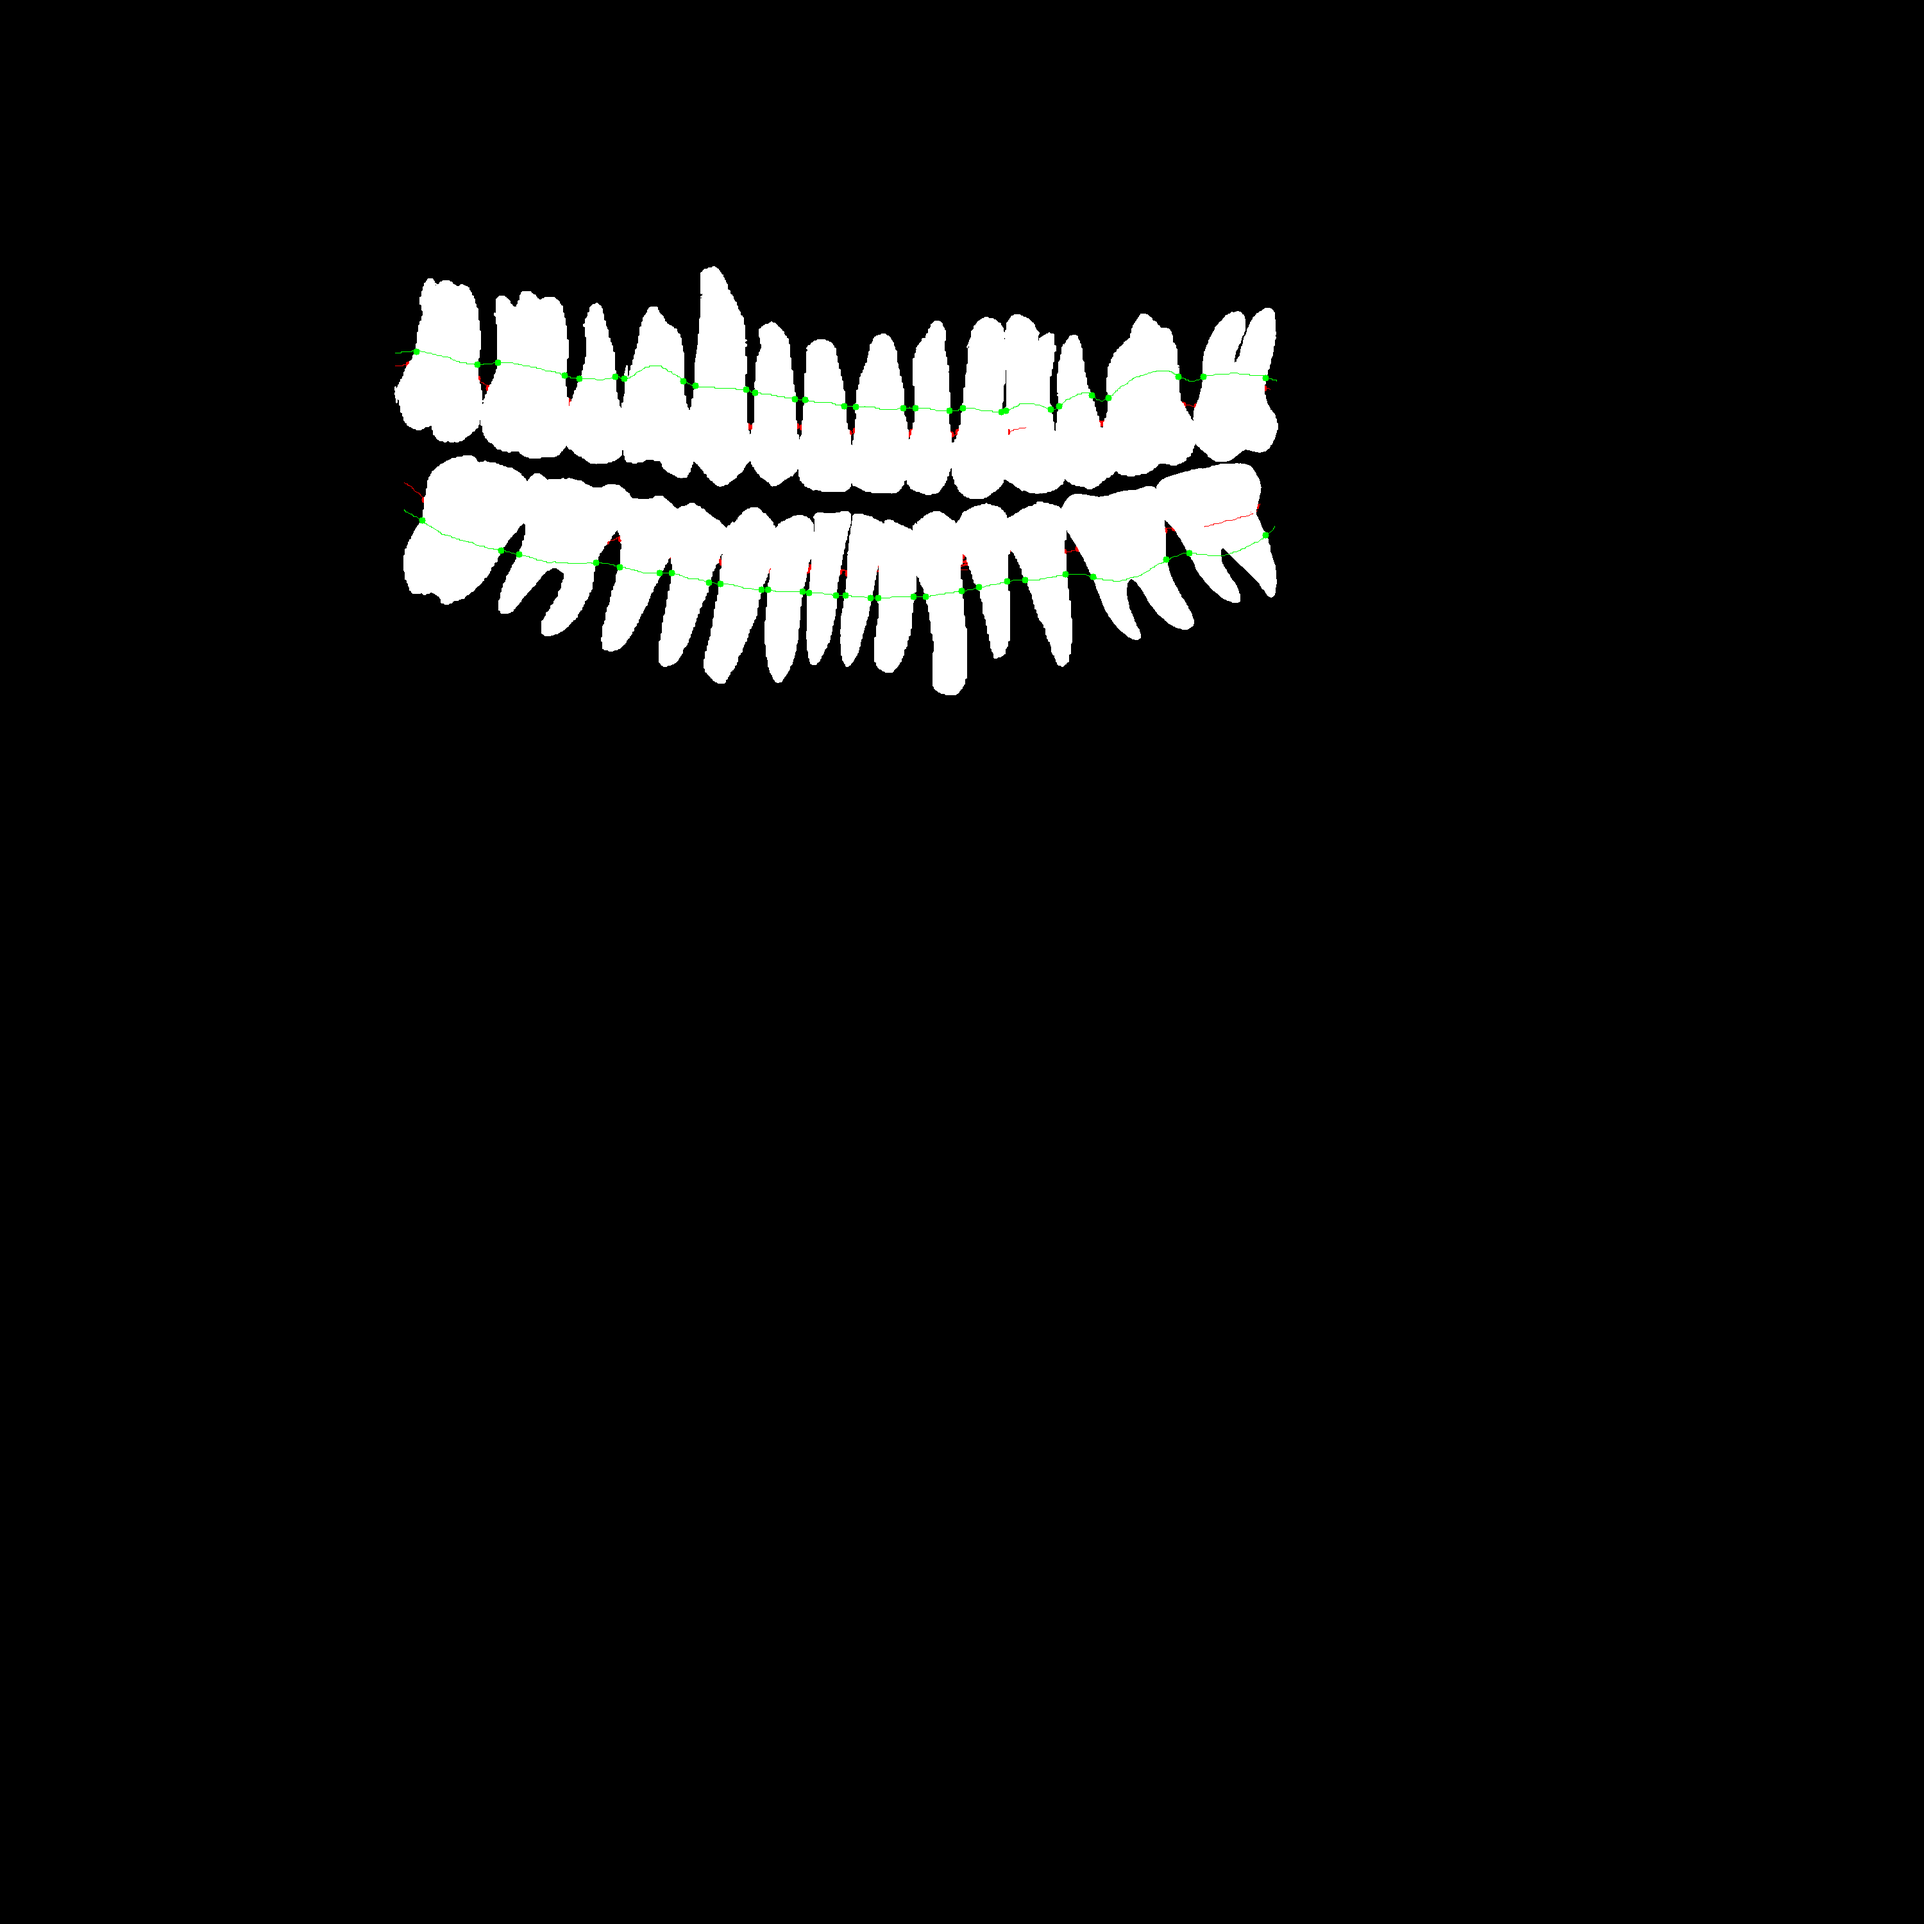
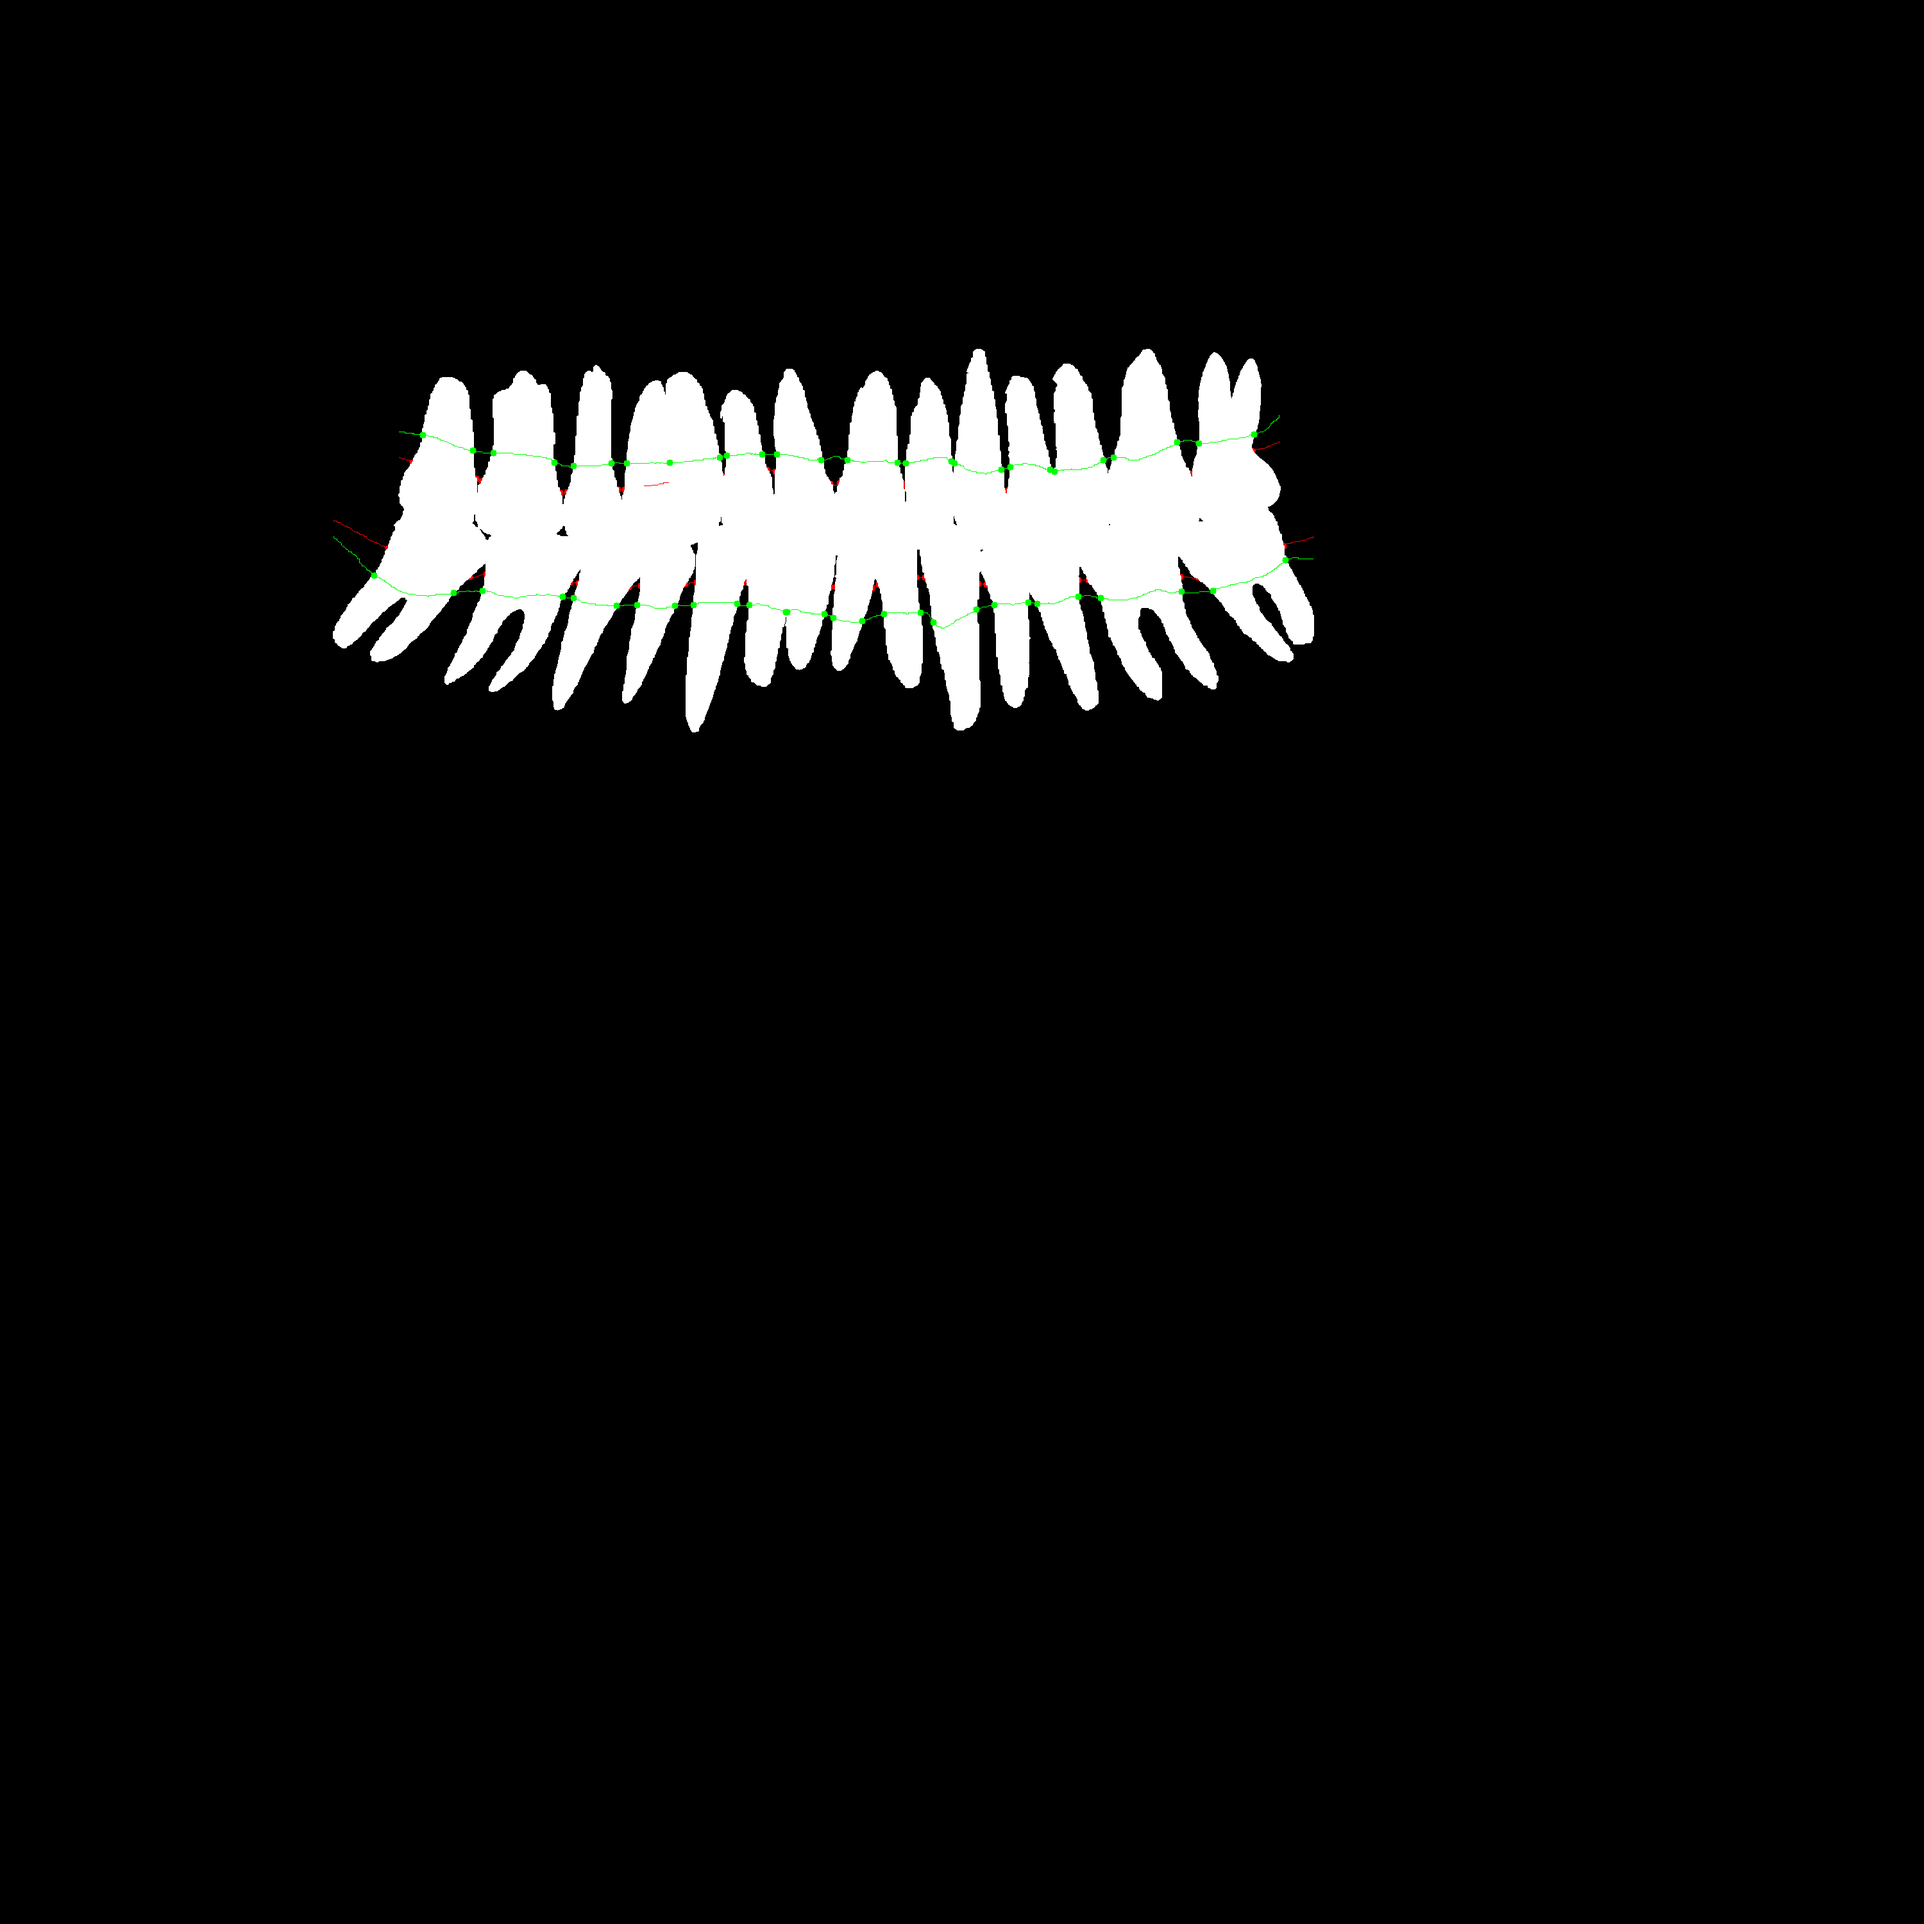
[BE-22]: tla 좌표 조정

Changed region(s): [[0.155, 0.124, 0.682, 0.372]]

diff --git a/src/main/java/com/fas/PrtioAI_Insights/service/CejBoneDistancesService.java b/src/main/java/com/fas/PrtioAI_Insights/service/CejBoneDistancesService.java
@@ -42,7 +42,7 @@ public class CejBoneDistancesService {
 
     private Map<Integer, List<Point>> cejIntersectionsByTooth;
     private Map<Integer, List<Point>> boneIntersectionsByTooth;
-    private  Map<Integer, Double> tlaAngleByTooth;
+    private Map<Integer, Double> tlaAngleByTooth;
 
 
     private Mat combinedMask, cejMask, mappedCejMask, tlaMask, boneMask, cejMappedOnlyMask, boneMappedOnlyMask;
@@ -171,7 +171,7 @@ public class CejBoneDistancesService {
                 type_ = "A";
             } else if (work.equals("S") && line.startsWith("DD")) {
                 type_ = "D";
-            } else if (work.equals("S") && line.startsWith("RBLD")){
+            } else if (work.equals("S") && line.startsWith("RBLD")) {
                 type_ = "RBL";
             } else if (work.equals("S") && line.startsWith("TRLD")) {
                 type_ = "TRL";
@@ -319,7 +319,7 @@ public class CejBoneDistancesService {
     private Map<Integer, Map<String, Point>> findAndMarkLastIntersections() {
         Map<Integer, Map<String, Point>> intersectionsByTooth = new HashMap<>();
 
-        for (Map.Entry<Integer, List<List<Point>>> entry : filteredTlaPointsByTooth.entrySet()) {
+        for (Map.Entry<Integer, List<List<Point>>> entry : tlaPointsByNum.entrySet()) {
             int toothNum = entry.getKey();
             List<List<Point>> tlaSegments = entry.getValue();
 
@@ -328,22 +328,16 @@ public class CejBoneDistancesService {
 
             if (cejIntersections == null || boneIntersections == null) continue;
 
-            double minCejX = cejIntersections.stream().mapToDouble(p -> p.x).min().orElse(Double.MIN_VALUE);
-            double maxCejX = cejIntersections.stream().mapToDouble(p -> p.x).max().orElse(Double.MAX_VALUE);
-            double minBoneX = boneIntersections.stream().mapToDouble(p -> p.x).min().orElse(Double.MIN_VALUE);
-            double maxBoneX = boneIntersections.stream().mapToDouble(p -> p.x).max().orElse(Double.MAX_VALUE);
-
-            double minAllowedX = Math.min(minCejX, minBoneX);
-            double maxAllowedX = Math.max(maxCejX, maxBoneX);
-
             for (List<Point> tlaSegment : tlaSegments) {
                 if (tlaSegment.size() >= 2) {
-                    double totalDx = tlaSegment.get(1).x - tlaSegment.get(0).x;
-                    double totalDy = tlaSegment.get(1).y - tlaSegment.get(0).y;
-                    double length = Math.sqrt(totalDx * totalDx + totalDy * totalDy);
-                    double shiftX = (totalDy / length);
-                    double shiftY = -(totalDx / length);
+                    // 방향 설정 (단위 벡터)
+                    double dx = tlaSegment.get(1).x - tlaSegment.get(0).x;
+                    double dy = tlaSegment.get(1).y - tlaSegment.get(0).y;
+                    double length = Math.sqrt(dx * dx + dy * dy);
+                    double shiftX = -dy / length;  // 가로 이동이므로 y의 역방향
+                    double shiftY = dx / length;   // 가로 이동이므로 x 방향
 
+                    // 결과 저장용
                     List<Point> finalShiftedTlaLeft = new ArrayList<>();
                     List<Point> finalShiftedTlaRight = new ArrayList<>();
                     Point lastCejIntersectionLeft = null;
@@ -353,22 +347,23 @@ public class CejBoneDistancesService {
                     boolean foundLeft = false;
                     boolean foundRight = false;
 
+                    // TLA 선을 좌우 방향으로 평행 이동
                     for (double offset = -50; offset <= 50; offset += 1) {
+                        // 왼쪽으로 이동한 TLA 선
                         List<Point> shiftedTlaLeft = new ArrayList<>();
-                        List<Point> shiftedTlaRight = new ArrayList<>();
-
                         for (Point p : tlaSegment) {
                             Point leftShifted = new Point(p.x + offset * shiftX, p.y + offset * shiftY);
-                            Point rightShifted = new Point(p.x - offset * shiftX, p.y - offset * shiftY);
-
-                            if (leftShifted.x >= minAllowedX && leftShifted.x <= maxAllowedX) {
-                                shiftedTlaLeft.add(leftShifted);
-                            }
-                            if (rightShifted.x >= minAllowedX && rightShifted.x <= maxAllowedX) {
-                                shiftedTlaRight.add(rightShifted);
-                            }
+                            shiftedTlaLeft.add(leftShifted);
                         }
 
+                        // 오른쪽으로 이동한 TLA 선
+                        List<Point> shiftedTlaRight = new ArrayList<>();
+                        for (Point p : tlaSegment) {
+                            Point rightShifted = new Point(p.x - offset * shiftX, p.y - offset * shiftY);
+                            shiftedTlaRight.add(rightShifted);
+                        }
+
+                        // 왼쪽 이동 TLA 선의 CEJ와 Bone 교점 탐색
                         if (!shiftedTlaLeft.isEmpty()) {
                             Point currentCejIntersectionLeft = findClosestIntersection(shiftedTlaLeft, cejIntersections);
                             Point currentBoneIntersectionLeft = findClosestIntersection(shiftedTlaLeft, boneIntersections);
@@ -378,9 +373,14 @@ public class CejBoneDistancesService {
                                 lastBoneIntersectionLeft = currentBoneIntersectionLeft;
                                 finalShiftedTlaLeft = new ArrayList<>(shiftedTlaLeft);
                                 foundLeft = true;
+
+                                // 치아 번호별 교점이 끝나는지 확인하고 종료
+                                if (isEndOfIntersection(currentCejIntersectionLeft, cejIntersections)
+                                        || isEndOfIntersection(currentBoneIntersectionLeft, boneIntersections)) break;
                             } else if (foundLeft) break;
                         }
 
+                        // 오른쪽 이동 TLA 선의 CEJ와 Bone 교점 탐색
                         if (!shiftedTlaRight.isEmpty()) {
                             Point currentCejIntersectionRight = findClosestIntersection(shiftedTlaRight, cejIntersections);
                             Point currentBoneIntersectionRight = findClosestIntersection(shiftedTlaRight, boneIntersections);
@@ -390,10 +390,14 @@ public class CejBoneDistancesService {
                                 lastBoneIntersectionRight = currentBoneIntersectionRight;
                                 finalShiftedTlaRight = new ArrayList<>(shiftedTlaRight);
                                 foundRight = true;
+
+                                if (isEndOfIntersection(currentCejIntersectionRight, cejIntersections)
+                                        || isEndOfIntersection(currentBoneIntersectionRight, boneIntersections)) break;
                             } else if (foundRight) break;
                         }
                     }
 
+                    // 교점들을 저장 및 시각화
                     Map<String, Point> toothIntersections = new HashMap<>();
                     if (foundLeft) {
                         toothIntersections.put("Last_CEJ_Intersection_Left", lastCejIntersectionLeft);
@@ -422,6 +426,34 @@ public class CejBoneDistancesService {
             }
         }
         return intersectionsByTooth;
+    }
+
+    // 교점이 치아 번호별로 끝나는 시점인지 확인하는 함수
+    private boolean isEndOfIntersection(Point intersection, List<Point> intersections) {
+        if (intersections.isEmpty()) return true;
+
+        Point lastPoint = intersections.get(intersections.size() - 1);
+        return intersection.equals(lastPoint); // 마지막 교점이면 true 반환
+    }
+
+
+
+    // 주어진 교점이 흰색 영역(치아) 안에 있는지 확인하는 함수
+    private boolean isInsideWhiteArea(Point intersection, Mat toothMask) {
+        if (intersection.x < 0 || intersection.y < 0 || intersection.x >= toothMask.width() || intersection.y >= toothMask.height()) {
+            return false;
+        }
+        double[] pixelValue = toothMask.get((int) intersection.y, (int) intersection.x);
+        return pixelValue[0] > 0; // 흰색 영역이라면 0보다 큰 값이어야 함
+    }
+
+
+
+    // CEJ 또는 Bone 교점이 치아 테두리 안에 있는지 확인하는 함수
+    private boolean isWithinToothBoundary(Point intersection, List<Point> toothBoundary) {
+        MatOfPoint2f boundaryMat = new MatOfPoint2f(toothBoundary.toArray(new Point[0]));
+        double distance = Imgproc.pointPolygonTest(boundaryMat, intersection, false);
+        return distance >= 0; // 0 이상이면 영역 안 또는 경계 위에 있음
     }
 
 
